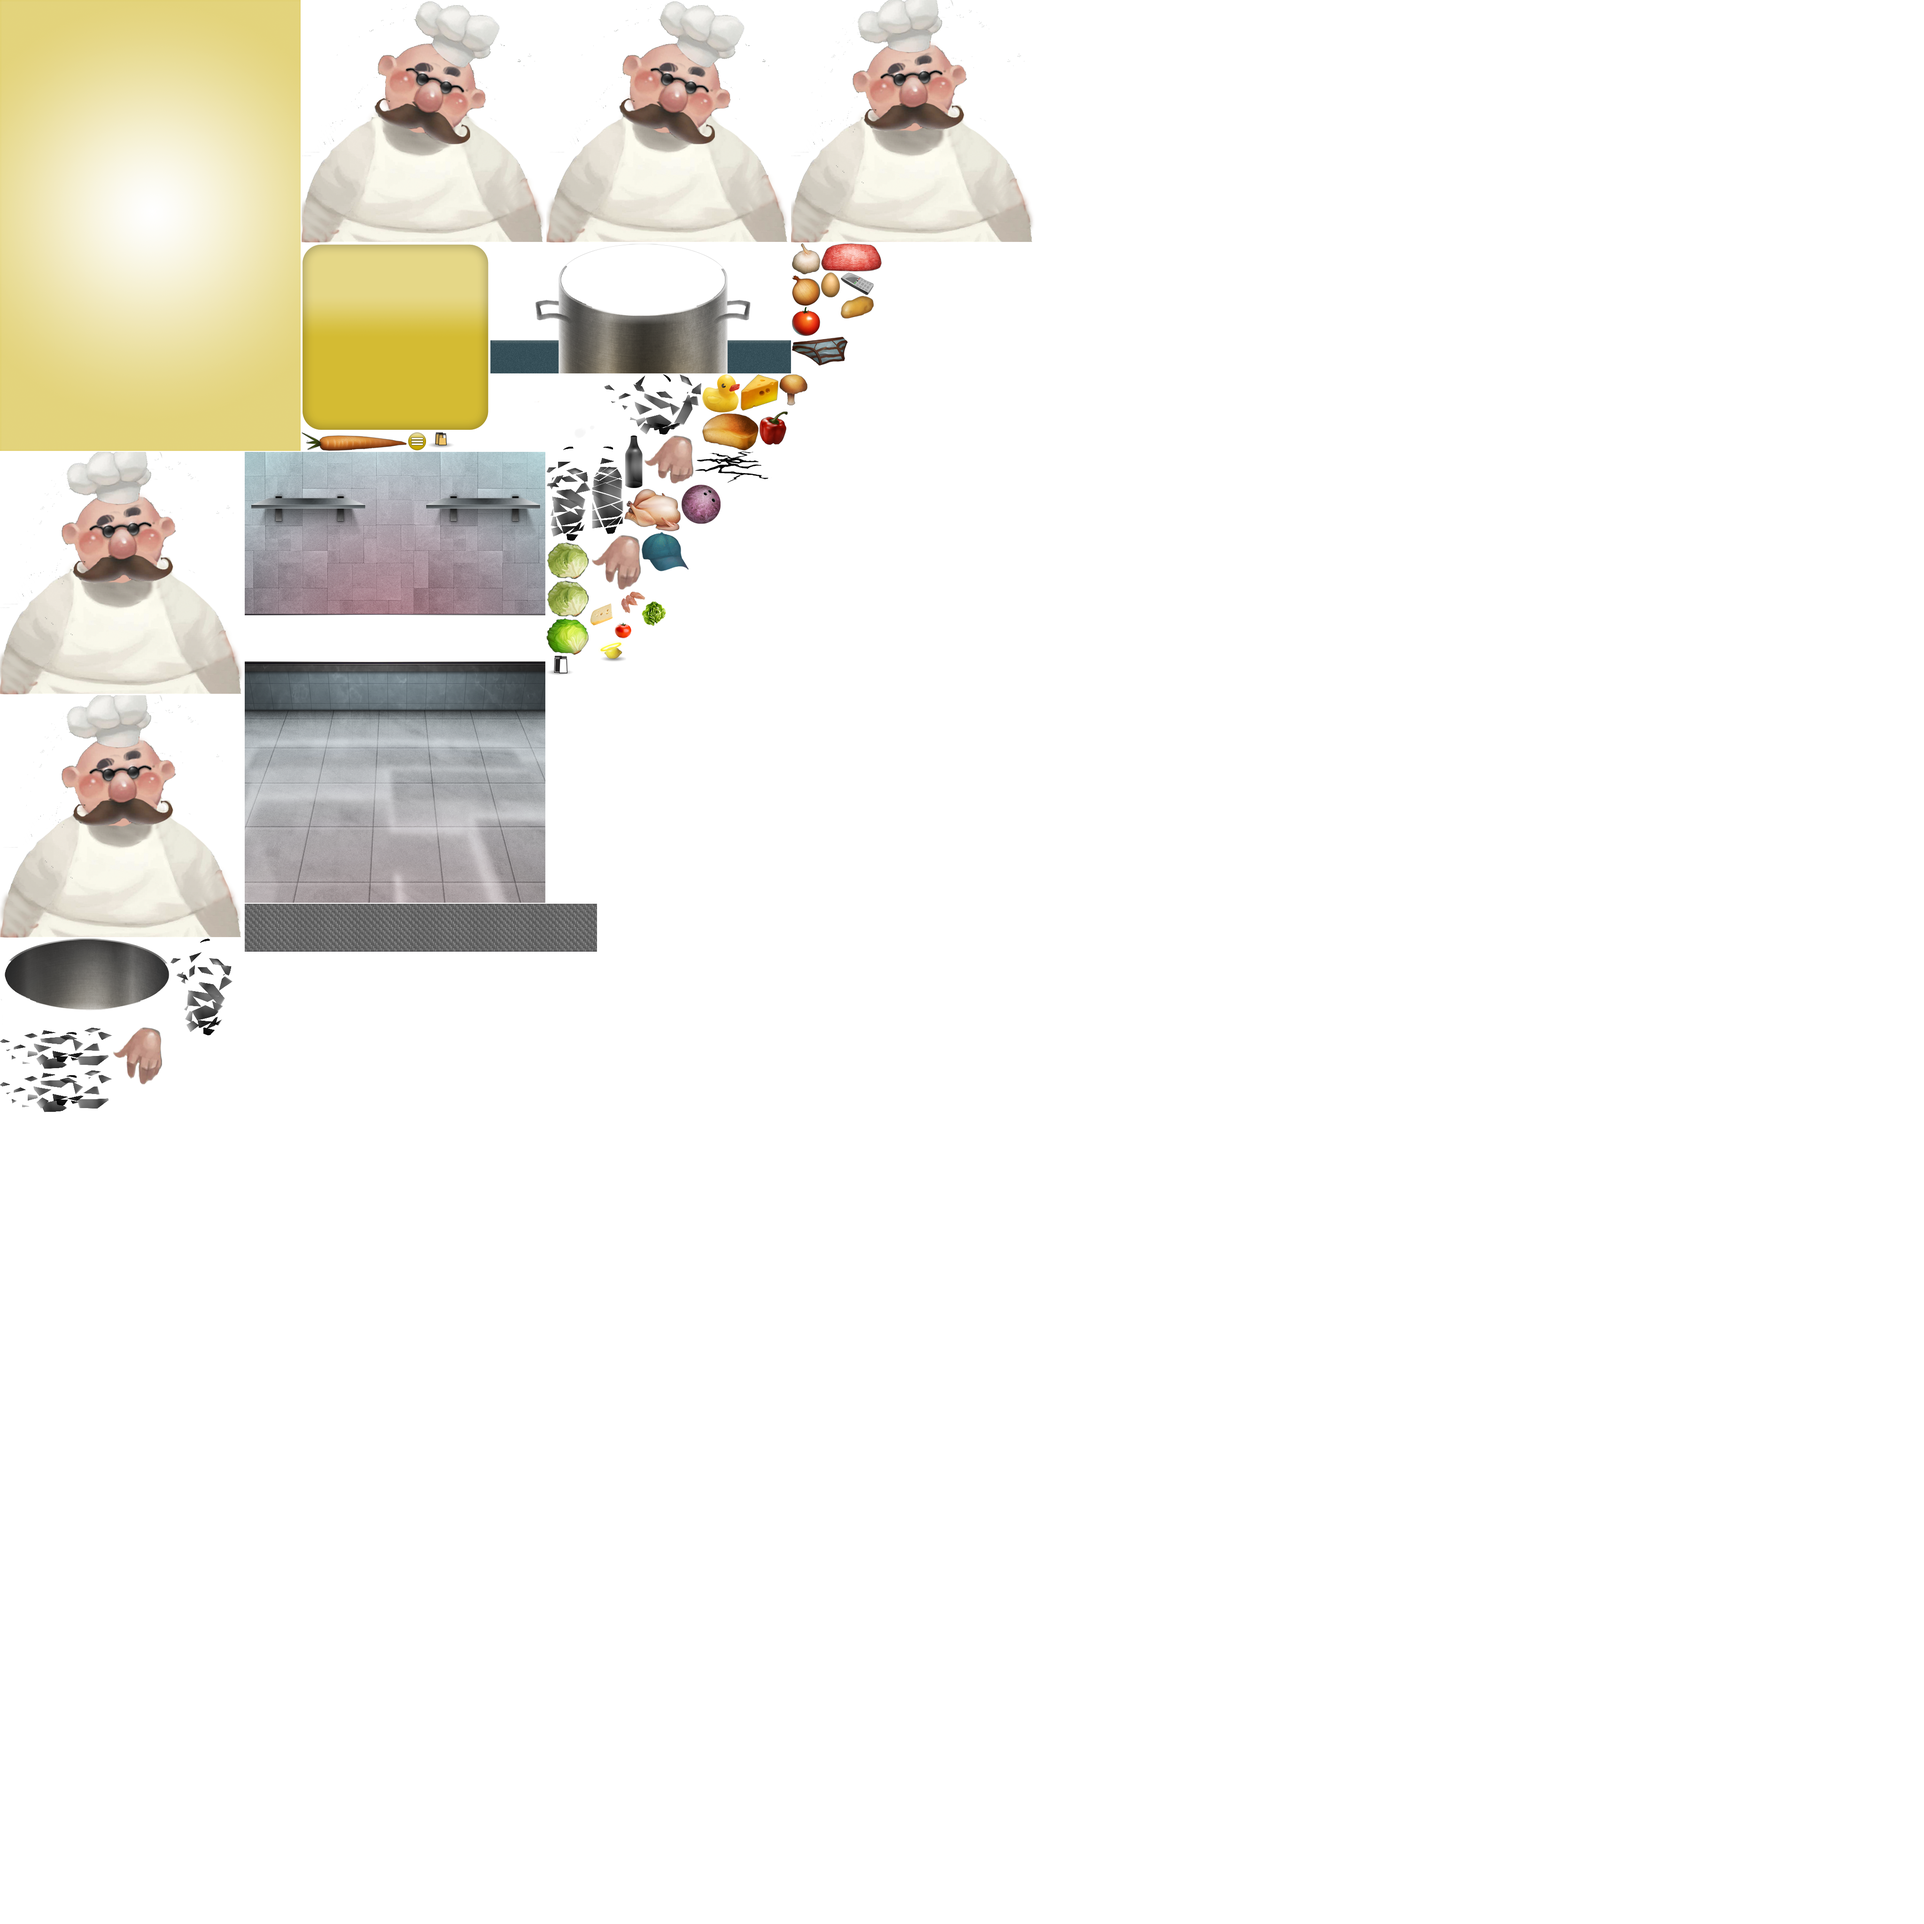
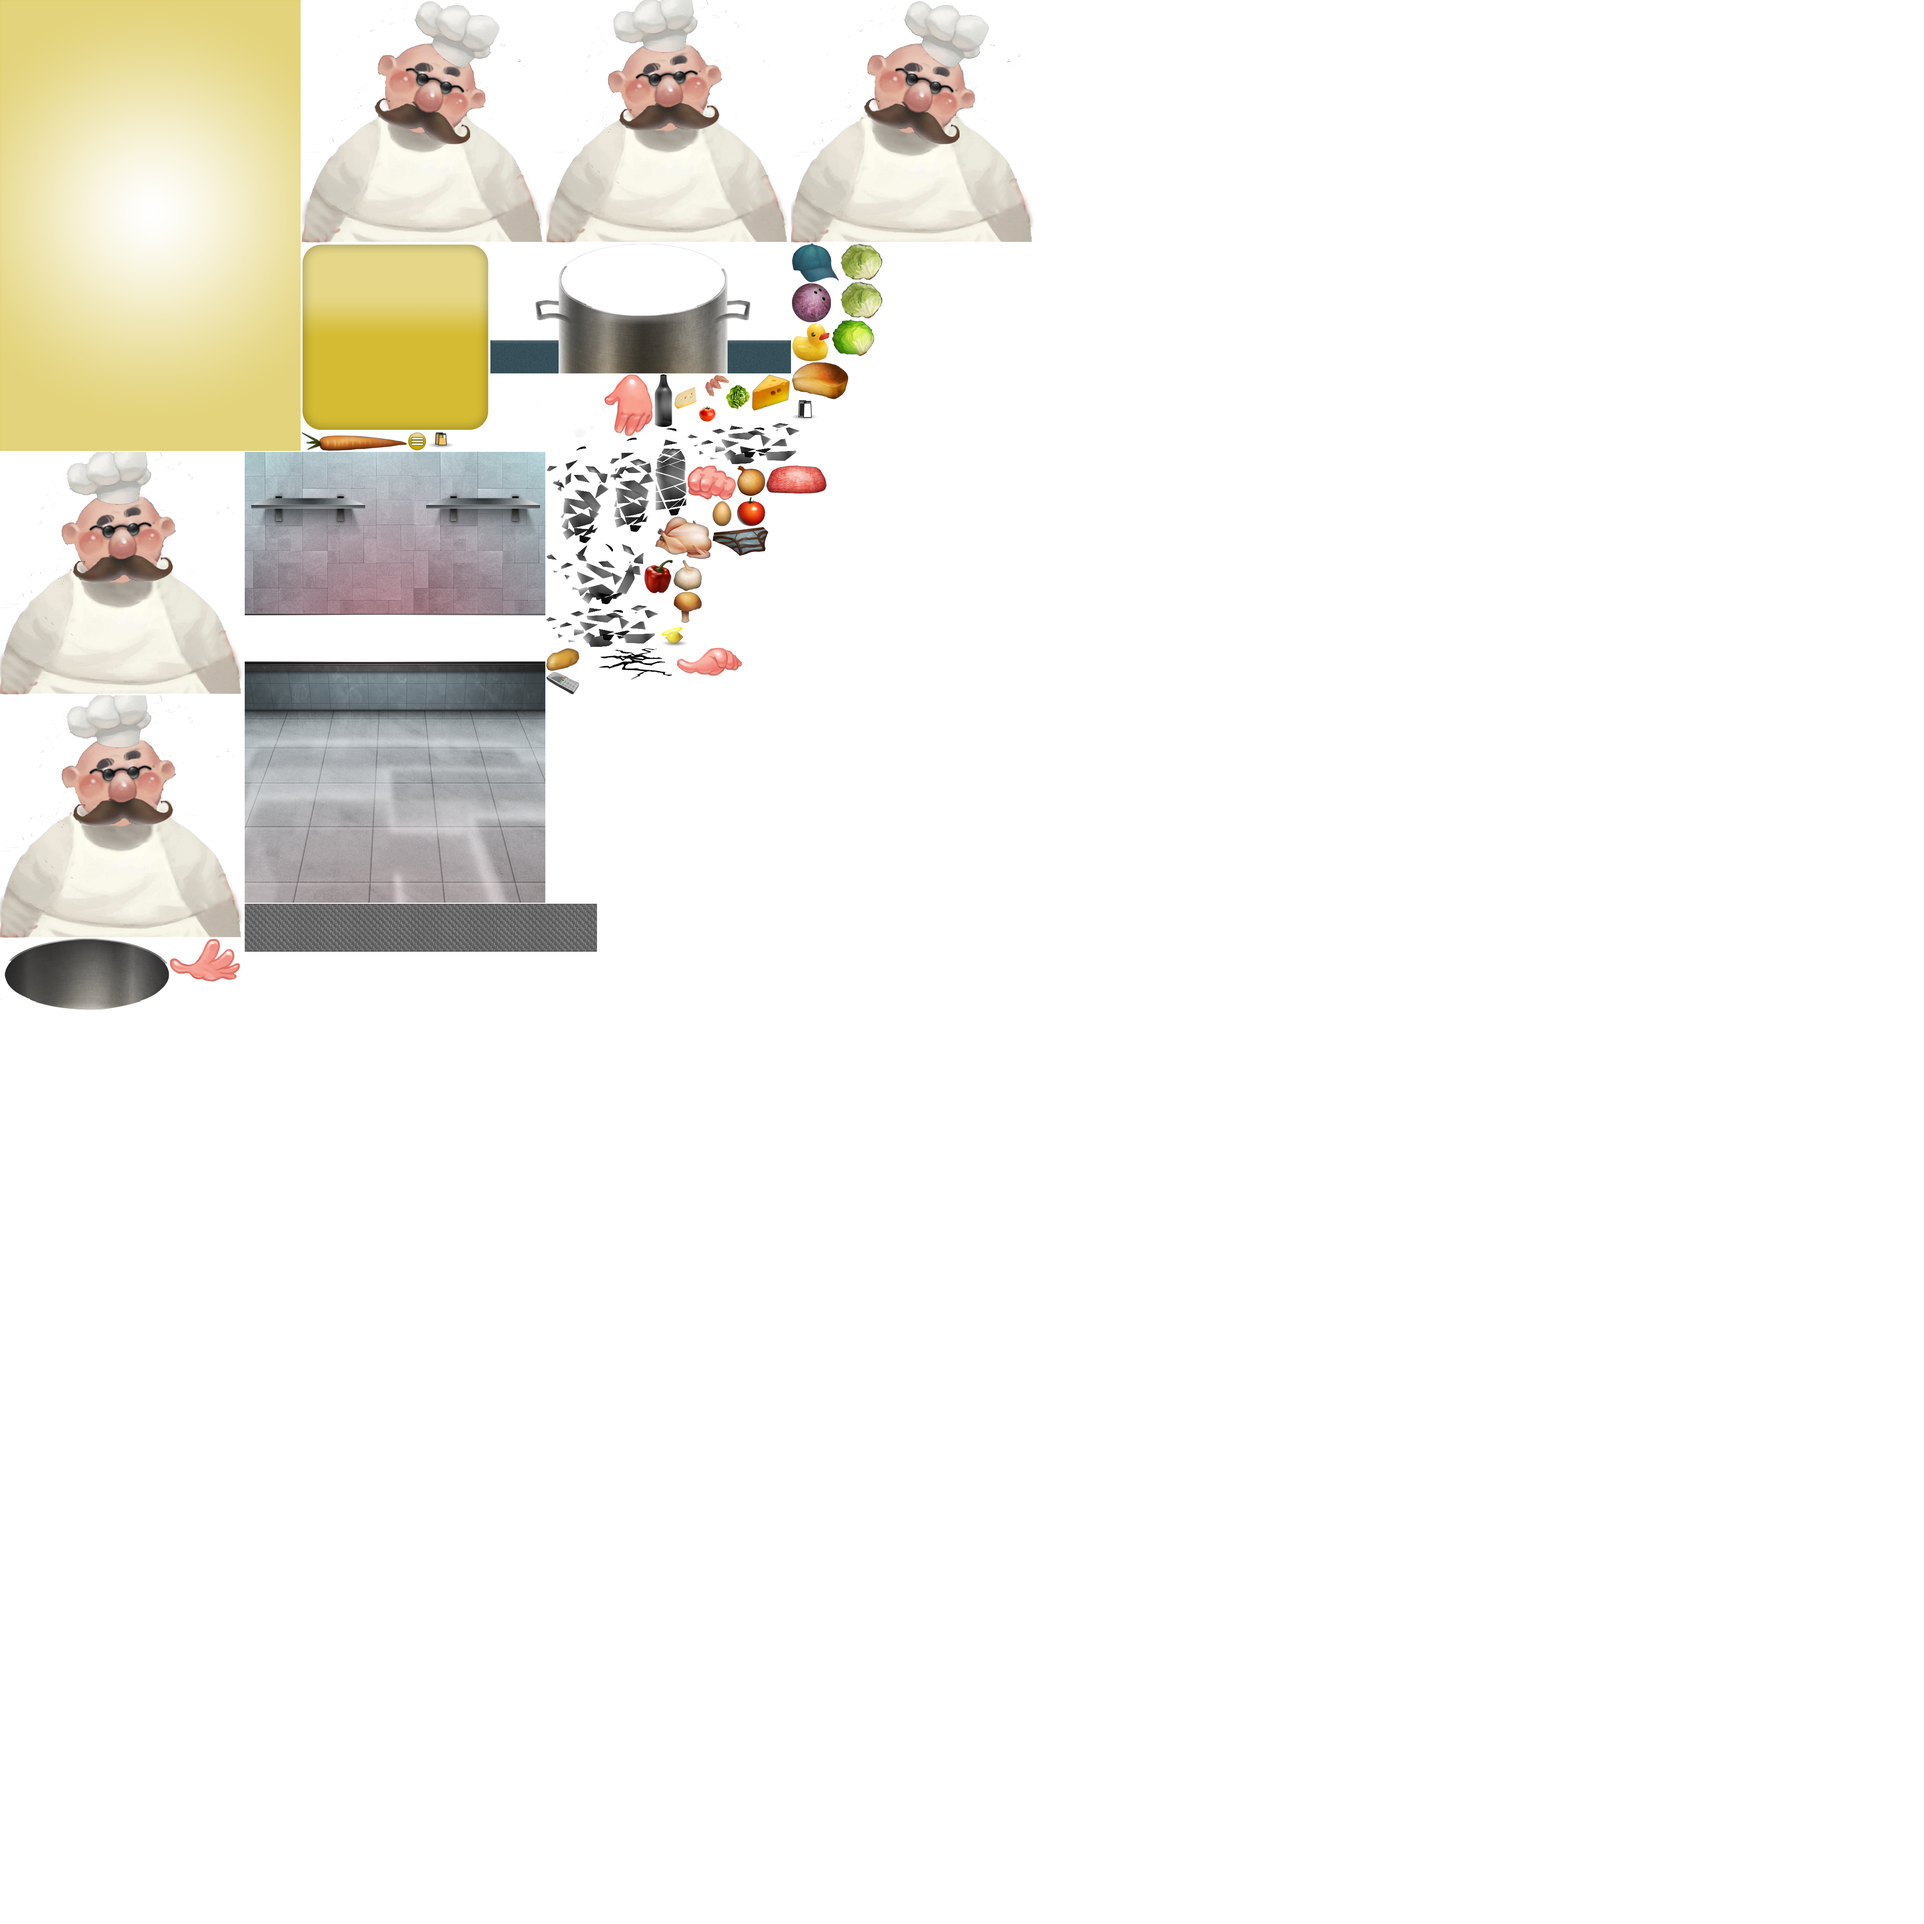
New hands;

diff --git a/common/ui/objects/Chef.cpp b/common/ui/objects/Chef.cpp
@@ -235,10 +235,10 @@ void Chef::runGrabAnimation(Sprite* activeHand, Point itemPos, Rect activeHandRe
    cocos2d::MoveTo* grabActionDown1 = MoveTo::create(actionGrabDuration * 0.15, Vec2(activeHandRect.origin.x,activeHandRect.origin.y - 50.0f));
    grabActionDown1->setTag(3);
    
-   Vector<SpriteFrame*> animFrames(3);
+   Vector<SpriteFrame*> animFrames(4);
    char imageFileName[100] = {0};
    auto cache = SpriteFrameCache::getInstance();
-   for(int i = 1; i < 4; i++)
+   for(int i = 1; i < 5; i++)
    {
       sprintf(imageFileName, "hand_left_%d.png", i);
       SpriteFrame* frame = cache->getSpriteFrameByName(imageFileName);
